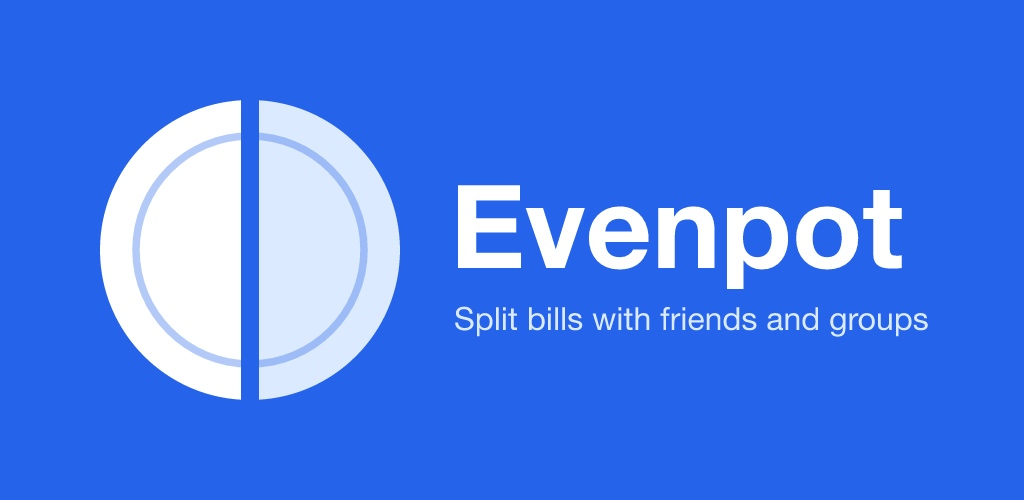
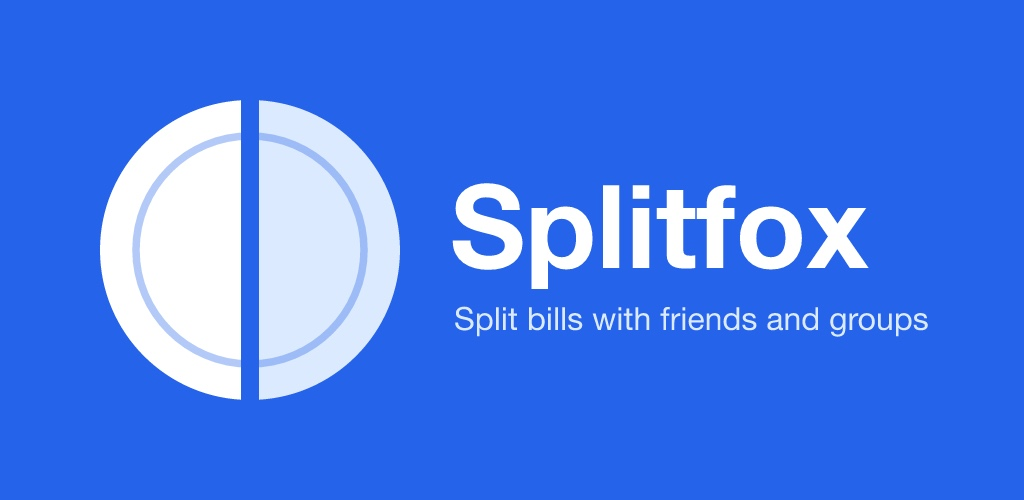
Chore: rename the app's display name from Evenpot to Splitfox for now
User-visible name only: app.json name, in-app text, tests, README, store listing and privacy docs, and the feature graphic. The scheme evenpot://, the package and bundle id com.overtureinteractive.evenpot stay (permanent identifiers).

Changed region(s): [[0.4375, 0.36, 0.9062, 0.6]]

diff --git a/app/(tabs)/account/help.tsx b/app/(tabs)/account/help.tsx
@@ -12,15 +12,15 @@ const FAQS: { question: string; answer: string }[] = [
   {
     question: "How do I settle up?",
     answer:
-      "Open a group and tap Settle Up. Evenpot simplifies who owes whom into the fewest payments, then records the payment so balances update for everyone.",
+      "Open a group and tap Settle Up. Splitfox simplifies who owes whom into the fewest payments, then records the payment so balances update for everyone.",
   },
   {
     question: "What does \"Simplify group debts\" do?",
     answer:
-      "When simplify debts is on, Evenpot nets out chains of IOUs so the group settles in the fewest possible payments. For example, if Alice owes Bob $10 and Bob owes Carol $10, Evenpot collapses that into Alice paying Carol $10 directly \u2014 Bob no longer needs to be involved. Your net balance (the total you owe or are owed across the group) is exactly the same either way; simplification only changes who pays whom, not how much. Turn it off in a group's settings to see the exact person-to-person amounts from each individual expense.",
+      "When simplify debts is on, Splitfox nets out chains of IOUs so the group settles in the fewest possible payments. For example, if Alice owes Bob $10 and Bob owes Carol $10, Splitfox collapses that into Alice paying Carol $10 directly \u2014 Bob no longer needs to be involved. Your net balance (the total you owe or are owed across the group) is exactly the same either way; simplification only changes who pays whom, not how much. Turn it off in a group's settings to see the exact person-to-person amounts from each individual expense.",
   },
   {
-    question: "Can I add people who aren't on Evenpot?",
+    question: "Can I add people who aren't on Splitfox?",
     answer:
       "Members are matched by the email address they signed up with. Invite friends to create an account with that email, then add them to your group.",
   },

diff --git a/app/group-manage.tsx b/app/group-manage.tsx
@@ -132,9 +132,9 @@ export default function ManageGroup() {
           lineHeight: 20,
         }}
       >
-        When simplify debts is on, Evenpot nets out chains of IOUs so the
+        When simplify debts is on, Splitfox nets out chains of IOUs so the
         group settles in the fewest possible payments. For example, if Alice
-        owes Bob $10 and Bob owes Carol $10, Evenpot collapses that into Alice
+        owes Bob $10 and Bob owes Carol $10, Splitfox collapses that into Alice
         paying Carol $10 directly — Bob no longer needs to be involved. Your net
         balance (the total you owe or are owed across the group) is exactly the
         same either way; simplification only changes who pays whom, not how

diff --git a/tests/screens/add-members.test.tsx b/tests/screens/add-members.test.tsx
@@ -112,7 +112,7 @@ describe("AddGroupMembers screen", () => {
     expect(mockAddAsync).not.toHaveBeenCalled();
   });
 
-  it("blocks an email with no Evenpot account", async () => {
+  it("blocks an email with no Splitfox account", async () => {
     mockLookupAsync.mockResolvedValue("not_registered");
     await renderWithPaper(<AddGroupMembers />);
 
@@ -120,7 +120,7 @@ describe("AddGroupMembers screen", () => {
 
     await waitFor(() =>
       expect(mockShowError).toHaveBeenCalledWith(
-        "No Evenpot account found for ghost@x.com"
+        "No Splitfox account found for ghost@x.com"
       )
     );
     expect(screen.queryByText("ghost@x.com")).toBeNull();

diff --git a/tests/screens/create-group.test.tsx b/tests/screens/create-group.test.tsx
@@ -91,7 +91,7 @@ describe("CreateGroup screen", () => {
     expect(mockShowError).toHaveBeenCalledWith("This email is already added");
   });
 
-  it("rejects an email with no Evenpot account", async () => {
+  it("rejects an email with no Splitfox account", async () => {
     mockCheckAsync.mockResolvedValue(false);
     await renderWithPaper(<CreateGroup />);
 
@@ -99,7 +99,7 @@ describe("CreateGroup screen", () => {
 
     await waitFor(() =>
       expect(mockShowError).toHaveBeenCalledWith(
-        "No Evenpot account found for ghost@x.com"
+        "No Splitfox account found for ghost@x.com"
       )
     );
   });

diff --git a/app/(tabs)/(home)/contacts/add.tsx b/app/(tabs)/(home)/contacts/add.tsx
@@ -49,7 +49,7 @@ export default function AddContact() {
         variant="bodyMedium"
         style={{ color: theme.colors.onSurfaceVariant, marginBottom: 16 }}
       >
-        Send a contact request to an existing Evenpot user by their email.
+        Send a contact request to an existing Splitfox user by their email.
         They'll need to accept before you can split one-on-one expenses.
       </Text>
 

diff --git a/app/group-add-members.tsx b/app/group-add-members.tsx
@@ -51,7 +51,7 @@ export default function AddGroupMembers() {
         email,
       });
       if (status === "not_registered") {
-        showError(`No Evenpot account found for ${email}`);
+        showError(`No Splitfox account found for ${email}`);
         return null;
       }
       if (status === "already_member") {

diff --git a/app/group-create.tsx b/app/group-create.tsx
@@ -43,7 +43,7 @@ export default function CreateGroup() {
     try {
       const exists = await checkEmail.mutateAsync(email);
       if (!exists) {
-        showError(`No Evenpot account found for ${email}`);
+        showError(`No Splitfox account found for ${email}`);
         return null;
       }
     } catch {

diff --git a/app/(tabs)/account/notifications.tsx b/app/(tabs)/account/notifications.tsx
@@ -81,7 +81,7 @@ export default function Notifications() {
           }}
         >
           Notification preferences are stored on this device and control which
-          alerts Evenpot sends you.
+          alerts Splitfox sends you.
         </Text>
       </View>
     </ScrollView>

diff --git a/app/(auth)/sign-in.tsx b/app/(auth)/sign-in.tsx
@@ -39,7 +39,7 @@ export default function SignIn() {
             variant="displaySmall"
             style={{ color: theme.colors.primary, textAlign: "center" }}
           >
-            Evenpot
+            Splitfox
           </Text>
           <Text
             variant="bodyLarge"

diff --git a/app/(auth)/sign-up.tsx b/app/(auth)/sign-up.tsx
@@ -48,7 +48,7 @@ export default function SignUp() {
             variant="displaySmall"
             style={{ color: theme.colors.primary, textAlign: "center" }}
           >
-            Evenpot
+            Splitfox
           </Text>
           <Text
             variant="bodyLarge"

diff --git a/STORE_LISTING.md b/STORE_LISTING.md
@@ -1,14 +1,14 @@
-# Evenpot: Google Play store listing draft
+# Splitfox: Google Play store listing draft
 
 Copy for the Play Console (Grow, Store presence, Main store listing). Draft only: the account owner reviews and edits before pasting. Written against the Play metadata policy: no other app or brand names, no ranking or price claims that are not true, no emoji spam, no ALL CAPS.
 
 ## App name (30 characters max)
 
 ```
-Evenpot: Split Bills
+Splitfox: Split Bills
 ```
 
-20 characters. Play's metadata policy does not allow price or promotional words like "Free" in the title, so the free positioning lives in the descriptions.
+21 characters. Play's metadata policy does not allow price or promotional words like "Free" in the title, so the free positioning lives in the descriptions.
 
 ## Short description (80 characters max)
 
@@ -21,9 +21,9 @@ Split bills with friends and groups. Free, with no ads and no limits.
 ## Full description (4,000 characters max)
 
 ```
-Evenpot makes it easy to share costs with the people you live, travel and hang out with. Add what you spent, choose how to split it, and Evenpot keeps track of who owes whom.
+Splitfox makes it easy to share costs with the people you live, travel and hang out with. Add what you spent, choose how to split it, and Splitfox keeps track of who owes whom.
 
-Evenpot is free. There are no daily limits on how many expenses you can add, no ads, and no paid Pro tier hiding the useful parts.
+Splitfox is free. There are no daily limits on how many expenses you can add, no ads, and no paid Pro tier hiding the useful parts.
 
 Split it your way
 - Split equally, by exact amounts or by percentages
@@ -36,7 +36,7 @@ Know who owes what
 - Record a payment when someone settles up, and balances update right away
 
 Groups and friends
-- Make a group for a trip, a household or a night out and add people by their email (they need an Evenpot account)
+- Make a group for a trip, a household or a night out and add people by their email (they need an Splitfox account)
 - Keep a list of friends for the one-off expenses that do not belong to a group
 - An activity feed shows what changed and when
 
@@ -45,14 +45,14 @@ Made for every day
 - View balances in the currency you prefer
 - Light and dark themes
 
-Sign up with your email address and start splitting in a minute. Evenpot is made by [DEVELOPER NAME].
+Sign up with your email address and start splitting in a minute. Splitfox is made by [DEVELOPER NAME].
 ```
 
 ## Things to confirm before pasting
 
 - **"Free, no ads, no limits, no Pro tier" is a promise.** It is true of the app today (no ads, in-app purchase or paywall code). Keep it only if that is the intent; if a paid plan or ads are ever added, change the listing first. Not in the title, per the Play policy.
 - **Alerts.** The notification switches in Settings only save a local preference today and nothing sends push notifications yet, so the listing does not mention alerts. Add it when that ships.
-- **Developer name.** The last line has the placeholder "[DEVELOPER NAME]". Replace it with the public developer name the Play Console shows for the account Evenpot is published under (the account owner chose the existing Overture Interactive account), and check it matches exactly.
+- **Developer name.** The last line has the placeholder "[DEVELOPER NAME]". Replace it with the public developer name the Play Console shows for the account Splitfox is published under (the account owner chose the existing Overture Interactive account), and check it matches exactly.
 - **Features.** Everything listed exists in the app at this commit. If the recurring and future-dated transactions work lands later, add a line for it in the update that ships it.
-- **Hosted pages (live):** privacy policy https://evenpot.overtureinteractive.com/privacy (paste into Console, Policy and programs, App content, Privacy policy) and account deletion https://evenpot.overtureinteractive.com/delete-account (the delete account URL in the Data safety form). The app has no in-app delete button yet, which Play also expects.
+- **Hosted pages (live):** privacy policy https://splitfox.overtureinteractive.com/privacy (paste into Console, Policy and programs, App content, Privacy policy) and account deletion https://splitfox.overtureinteractive.com/delete-account (the delete account URL in the Data safety form). The app has no in-app delete button yet, which Play also expects.
 - **Still needed in the Console, not written here:** the icon (`assets/store/play-icon-512.png`), the feature graphic, the phone screenshots and the category (Finance or Productivity). The files are in `assets/store/`.

diff --git a/PRIVACY.md b/PRIVACY.md
@@ -1,10 +1,10 @@
-# Evenpot privacy policy
+# Splitfox privacy policy
 
 <!-- Draft for the publisher to review. Replace the four placeholders in square brackets ([DEVELOPER NAME], [CONTACT EMAIL], [EFFECTIVE DATE], [NUMBER OF DAYS]) and delete this comment before publishing. Every statement below was checked against the app's code at the time of writing; if the app changes (analytics, ads, push notifications, account deletion), this policy has to change with it. -->
 
 Effective date: [EFFECTIVE DATE]
 
-Evenpot is a bill-splitting app. It is published by [DEVELOPER NAME] ("we", "us"). You can reach us at [CONTACT EMAIL].
+Splitfox is a bill-splitting app. It is published by [DEVELOPER NAME] ("we", "us"). You can reach us at [CONTACT EMAIL].
 
 ## What we collect
 
@@ -27,7 +27,7 @@ Evenpot is a bill-splitting app. It is published by [DEVELOPER NAME] ("we", "us"
 
 ## What we do not collect
 
-Evenpot has no advertising, no analytics, no crash-reporting service and no push notifications. It does not ask for your location, your phone's contacts, photos, camera, microphone or files, and it does not read advertising or device identifiers. We do not sell your data.
+Splitfox has no advertising, no analytics, no crash-reporting service and no push notifications. It does not ask for your location, your phone's contacts, photos, camera, microphone or files, and it does not read advertising or device identifiers. We do not sell your data.
 
 ## Who can see your data
 
@@ -35,7 +35,7 @@ Evenpot has no advertising, no analytics, no crash-reporting service and no push
 - **Your contacts, and anyone you have a one-to-one expense or payment with,** can see your name and the expenses and payments between the two of you.
 - **If you leave a group,** the expenses and payments you already added stay in that group, with your name, for the people who are still in it.
 - **Nobody sees your email address through the app.** It is not shown to other users.
-- **Anyone with an Evenpot account can check whether an email address has an account.** If they then send a contact request to it, they will see the name on that account.
+- **Anyone with an Splitfox account can check whether an email address has an account.** If they then send a contact request to it, they will see the name on that account.
 - **A group member can add any registered person to a group without that person accepting first.** The person added can then see that group's data, and can leave once they have no unsettled balance.
 
 ## Service providers
@@ -53,12 +53,12 @@ We keep your data until it is deleted. You can delete individual expenses and pa
 
 - You can change your name in the app (Account, Edit profile).
 - You can delete expenses and payments, and leave a group once you have no unsettled balance.
-- **Evenpot does not yet have a delete-account button in the app.** To delete your account, email [CONTACT EMAIL] from the address you signed up with and ask us to delete it. We will delete your account, and the personal data tied to it (your email address and name), within [NUMBER OF DAYS] days.
+- **Splitfox does not yet have a delete-account button in the app.** To delete your account, email [CONTACT EMAIL] from the address you signed up with and ask us to delete it. We will delete your account, and the personal data tied to it (your email address and name), within [NUMBER OF DAYS] days.
 - **Please know what deletion removes.** Deleting an account also deletes the expenses the account paid for, the payments it made or received, its share of other people's expenses, the one-to-one expenses and payments it has with friends (in either direction), its friends list and group memberships, and the groups it created, and this changes the balances the other members of those groups see. We recommend settling up first, and we can talk you through the options before we delete anything.
 
 ## Children
 
-Evenpot is not directed at children and is not intended for people under 13 (or the higher minimum age in your country). We do not knowingly collect data from children. If you believe a child has an account, contact us and we will remove it.
+Splitfox is not directed at children and is not intended for people under 13 (or the higher minimum age in your country). We do not knowingly collect data from children. If you believe a child has an account, contact us and we will remove it.
 
 ## Changes to this policy
 
